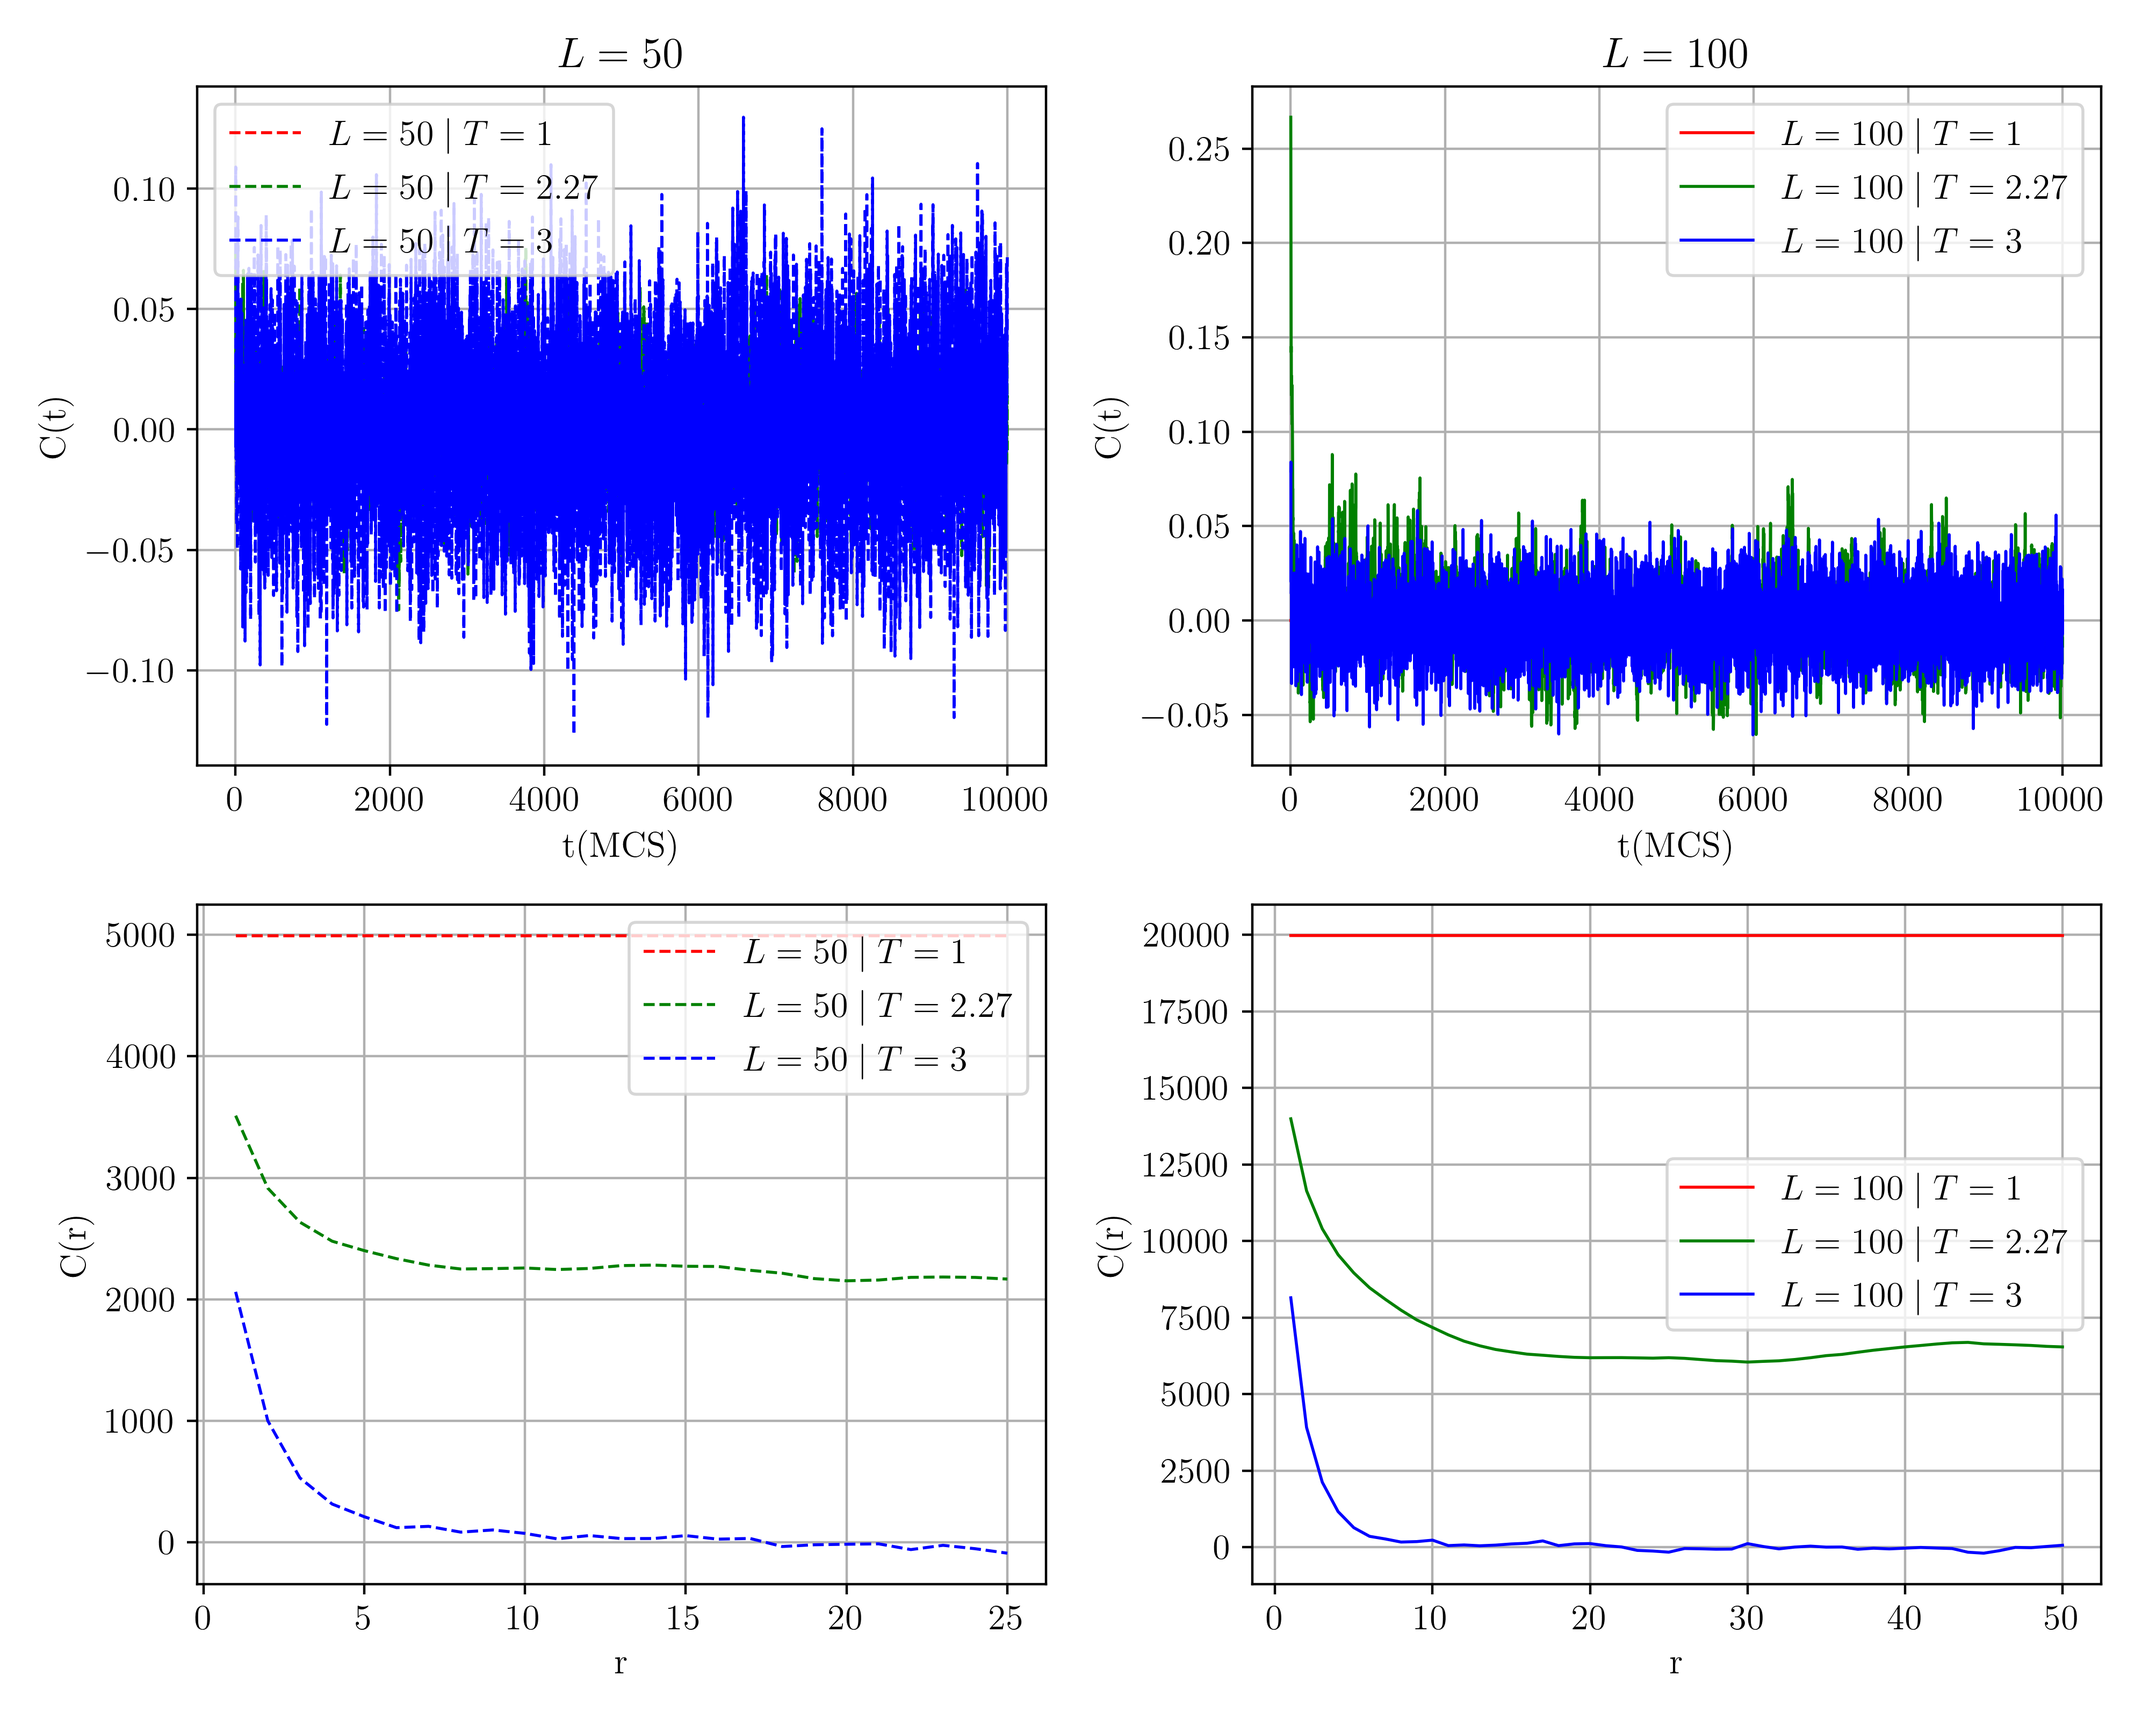
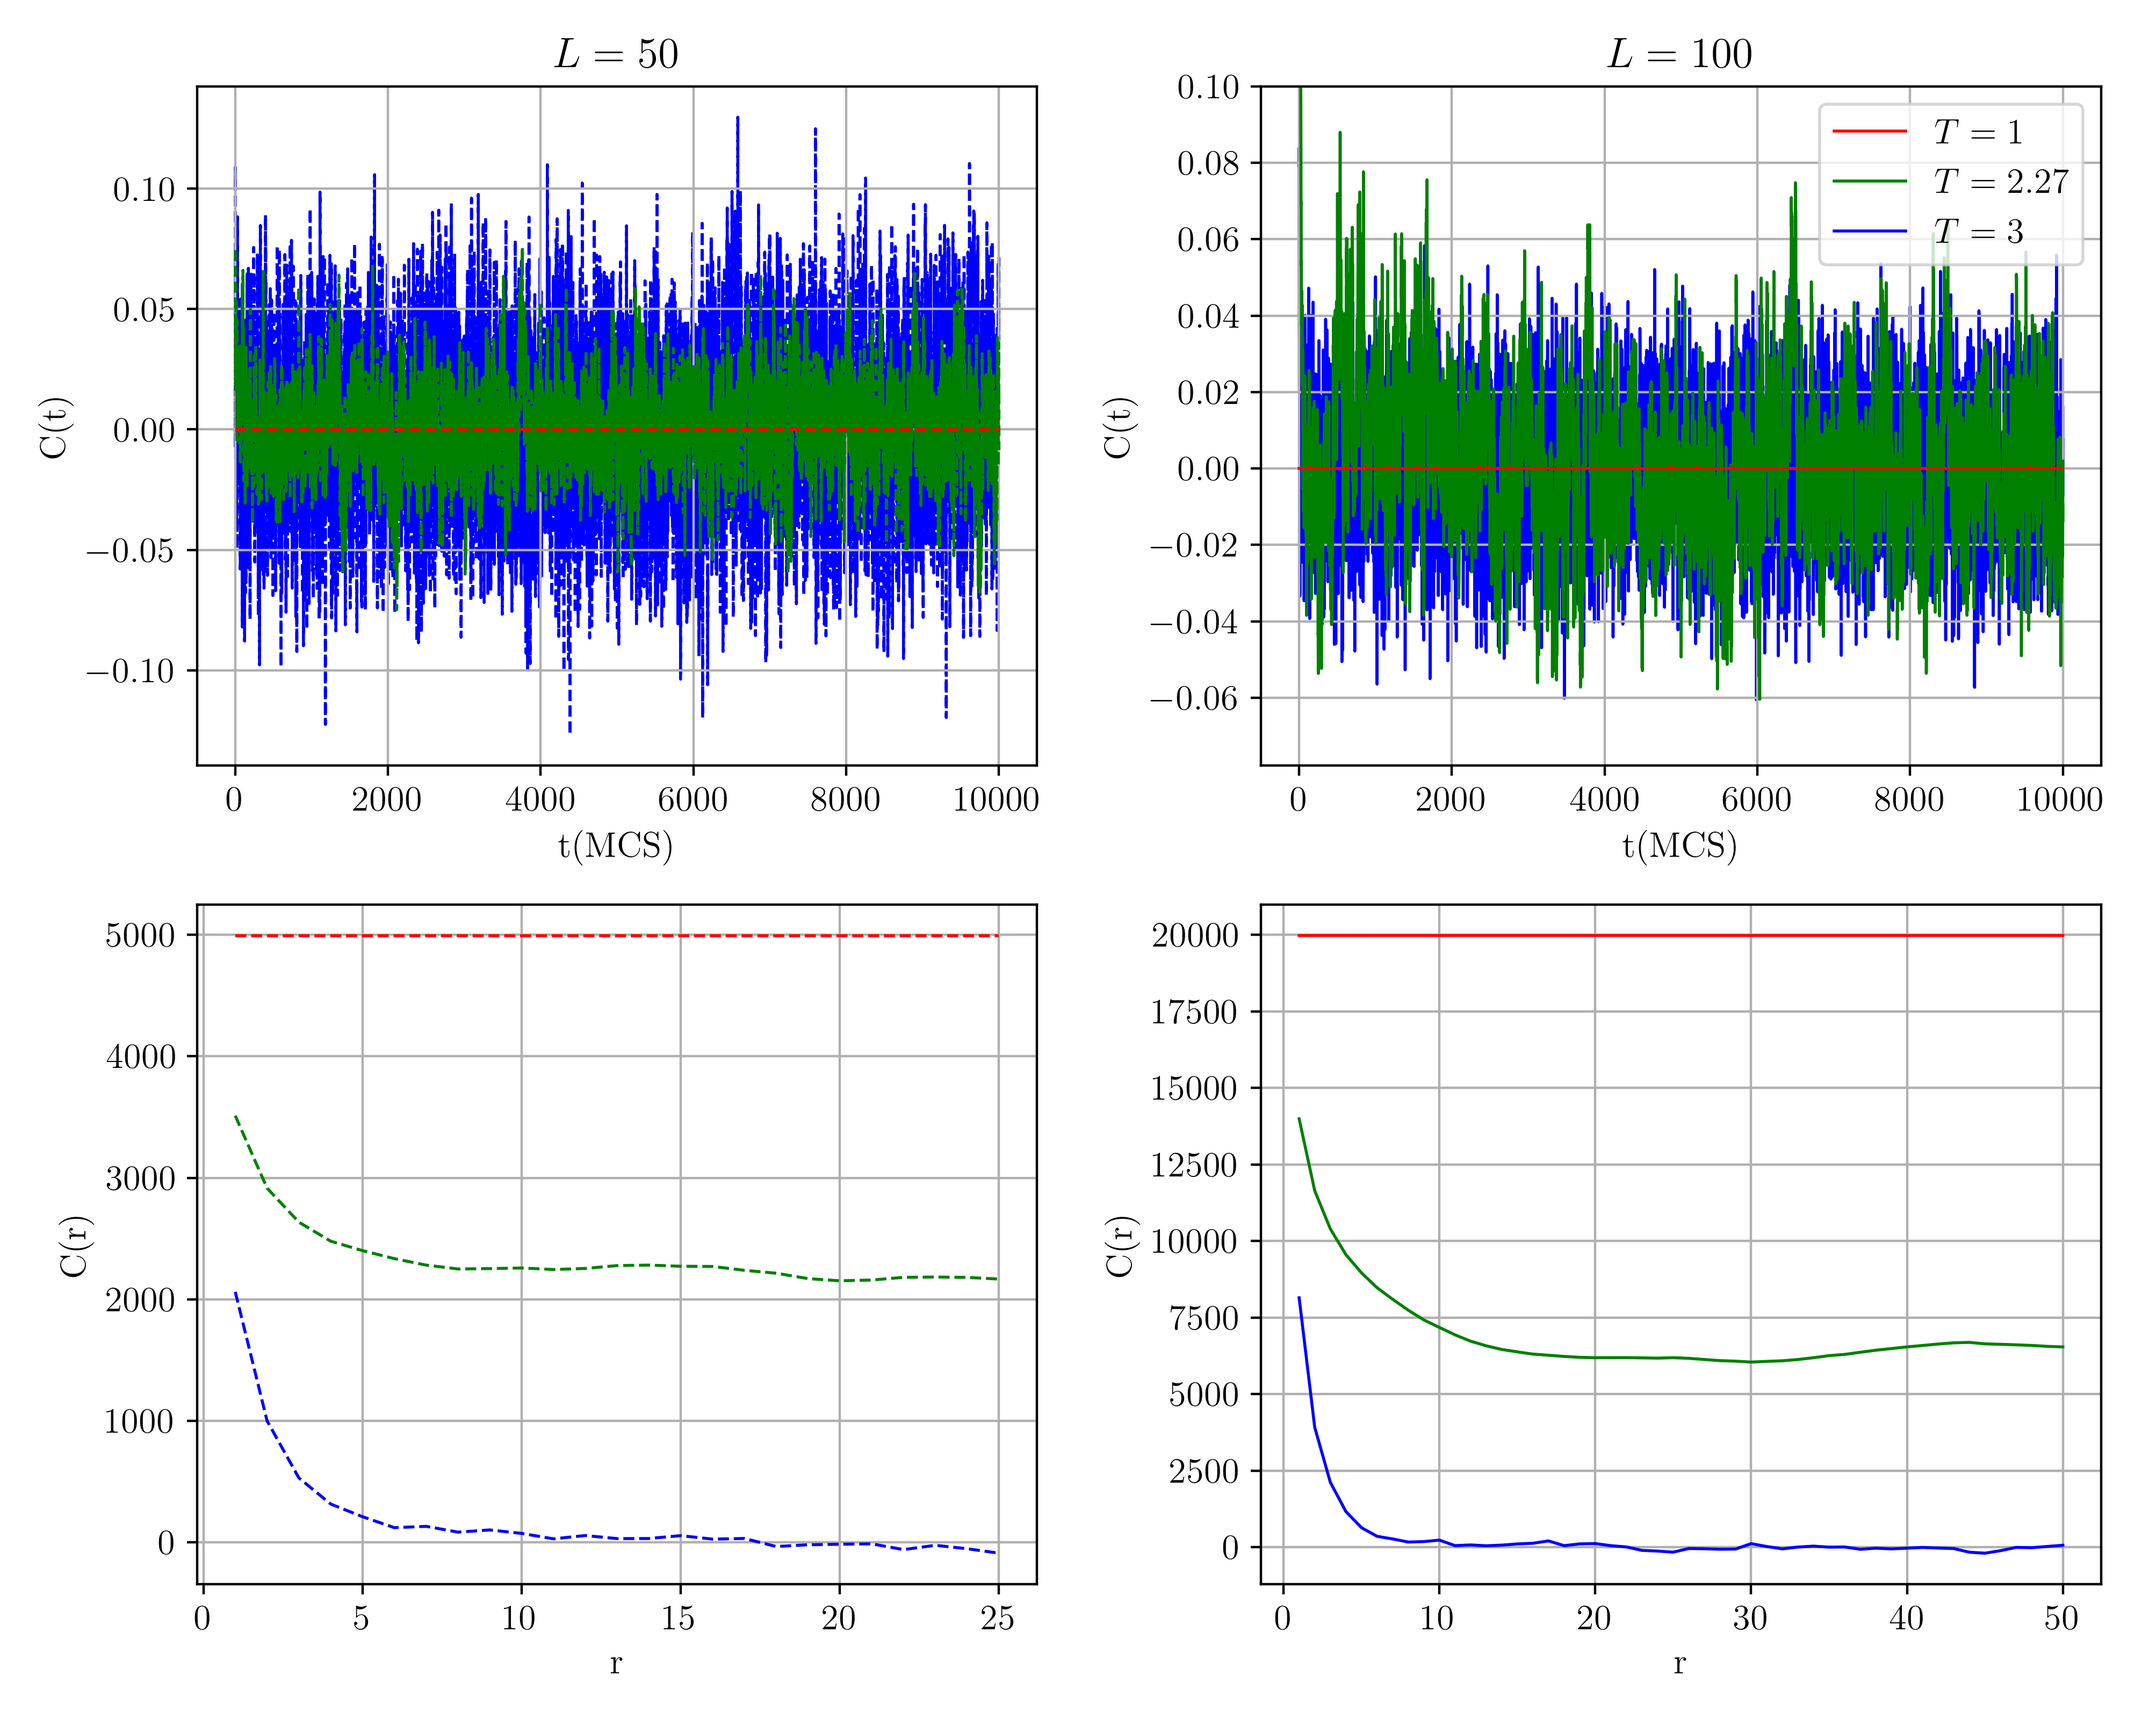
Atualização

diff --git a/Atividades-aula/ex-16/plot.py b/Atividades-aula/ex-16/plot.py
@@ -61,42 +61,40 @@ cr6 = medams(split(cr6,-1))
 fig = plt.subplots(figsize=(10, 8))
 
 plt.subplot(221)
-plt.plot(t1, ct1, 'r--', linewidth=1, label=fr'$L = 50 \mid T = 1$')
-plt.plot(t2, ct2, 'g--', linewidth=1, label=fr'$L = 50 \mid T = 2.27$')
-plt.plot(t3, ct3, 'b--', linewidth=1, label=fr'$L = 50 \mid T = 3$')
+plt.plot(t1, ct1, 'r--', linewidth=1, zorder=3)
+plt.plot(t2, ct2, 'g--', linewidth=1, zorder=2)
+plt.plot(t3, ct3, 'b--', linewidth=1, zorder=1)
 plt.xlabel('t(MCS)')
 plt.ylabel('C(t)')
 plt.title(r'$L = 50$')
 plt.grid()
-plt.legend()
 
 plt.subplot(222)
-plt.plot(t4, ct4, 'r', linewidth=1, label=fr'$L = 100 \mid T = 1$')
-plt.plot(t5, ct5, 'g', linewidth=1, label=fr'$L = 100 \mid T = 2.27$')
-plt.plot(t6, ct6, 'b', linewidth=1, label=fr'$L = 100 \mid T = 3$')
+plt.plot(t4, ct4, 'r', linewidth=1, zorder=3, label=fr'$T = 1$')
+plt.plot(t5, ct5, 'g', linewidth=1, zorder=2, label=fr'$T = 2.27$')
+plt.plot(t6, ct6, 'b', linewidth=1, zorder=1, label=fr'$T = 3$')
 plt.xlabel('t(MCS)')
 plt.ylabel('C(t)')
 plt.title(r'$L = 100$')
+plt.ylim(-0.07777777, 0.1)
 plt.grid()
 plt.legend()
 
 plt.subplot(223)
-plt.plot(r1, cr1, 'r--', linewidth=1, label=fr'$L = 50 \mid T = 1$')
-plt.plot(r2, cr2, 'g--', linewidth=1, label=fr'$L = 50 \mid T = 2.27$')
-plt.plot(r3, cr3, 'b--', linewidth=1, label=fr'$L = 50 \mid T = 3$')
+plt.plot(r1, cr1, 'r--', linewidth=1)
+plt.plot(r2, cr2, 'g--', linewidth=1)
+plt.plot(r3, cr3, 'b--', linewidth=1)
 plt.xlabel('r')
 plt.ylabel('C(r)')
 plt.grid()
-plt.legend(loc='upper right')
 
 plt.subplot(224)
-plt.plot(r4, cr4, 'r', linewidth=1, label=fr'$L = 100 \mid T = 1$')
-plt.plot(r5, cr5, 'g', linewidth=1, label=fr'$L = 100 \mid T = 2.27$')
-plt.plot(r6, cr6, 'b', linewidth=1, label=fr'$L = 100 \mid T = 3$')
+plt.plot(r4, cr4, 'r', linewidth=1)
+plt.plot(r5, cr5, 'g', linewidth=1)
+plt.plot(r6, cr6, 'b', linewidth=1)
 plt.xlabel('r')
 plt.ylabel('C(r)')
 plt.grid()
-plt.legend()
 
 plt.tight_layout()
 #plt.show()
